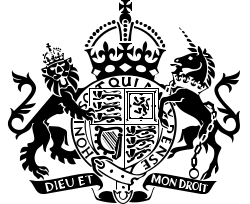
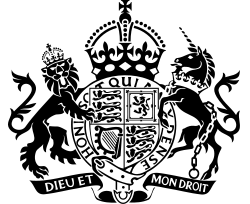
PLATUI-3897 optimises the govuk-crest-2x and docs for quality (#481)

diff --git a/docs/GOVUK-CREST-PNG-GENERATION.md b/docs/GOVUK-CREST-PNG-GENERATION.md
@@ -32,10 +32,14 @@ If [govuk-frontend](https://github.com/alphagov/govuk-frontend/) provides an upd
     4. Ensure everything else on this tab is unticked
 13. In this Optimized SVG Output window, click the `IDs` tab and tick all three of the options
 14. Press OK
-15. Use a command-line tool like [svgo](https://github.com/svg/svgo), or an online tool like [svgomg](https://github.com/jakearchibald/svgomg/) to further optimise the file
+15. Use a command-line tool like [svgo](https://github.com/svg/svgo), or an online tool like [svgomg](https://github.com/jakearchibald/svgomg/) to further optimise the file. 
+    1. Make sure you keep a Number Precision of at least 2
 16. Open the optimised file in Inkscape
 17. In the menu, click `File > Export`
 18. In the `Export` tab, ensure the `Page` option is selected
-19. Ensure `PNG (*.png)` is selected
-20. Click the folder icon on the file path to choose where to save the file - Remember to give the file a name like `govuk-crest-2x.png`.
-21. Click Export
+19. Ensure `Optimized PNG (*.png)` is selected
+20. Click the gear icon next to the `Optimized PNG` selection
+21. Set the `Level:` to `Ten Compression Trials`
+22. Select Lossy Options and tick all three options 
+23. Click the folder icon on the file path to choose where to save the file - Remember to give the file a name like `govuk-crest-2x.png`.
+24. Click Export

diff --git a/CHANGELOG.md b/CHANGELOG.md
@@ -7,6 +7,12 @@ and this project adheres to [Semantic Versioning](http://semver.org/).
 
 ## [Unreleased]
 
+## [6.85.0] - 2025-08-18
+
+### Changed
+
+- Updated the image for the govuk crest upscaled to 200% under `src/assets/images` to avoid compression artifacts
+
 ## [6.84.0] - 2025-08-15
 
 ### Changed
